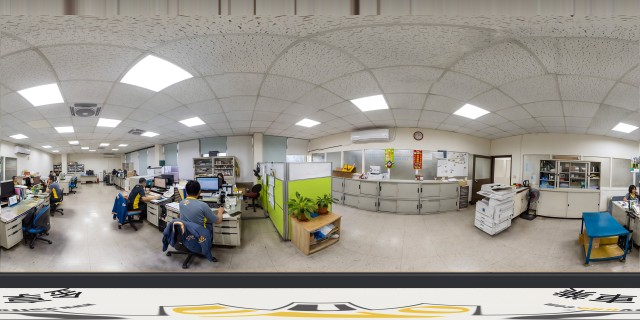
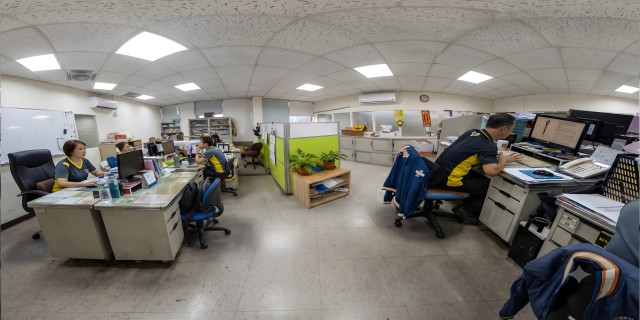
Replace 二樓業務部 panorama with 二樓業務.jpg.

diff --git a/index.html b/index.html
@@ -11,7 +11,7 @@
   <link href="https://fonts.googleapis.com/css2?family=Noto+Sans+TC:wght@400;500;600;700&family=Noto+Serif+TC:wght@600;700&display=swap" rel="stylesheet">
   <link rel="stylesheet" href="https://cdn.jsdelivr.net/npm/@photo-sphere-viewer/core@5.14.1/index.css">
   <link rel="stylesheet" href="https://cdn.jsdelivr.net/npm/@photo-sphere-viewer/markers-plugin@5.14.1/index.css">
-  <link rel="stylesheet" href="./css/tour.css?v=58">
+  <link rel="stylesheet" href="./css/tour.css?v=59">
   <script type="importmap">
   {
     "imports": {
@@ -186,6 +186,6 @@
     </div>
   </div>
 
-  <script type="module" src="./js/tour.js?v=58"></script>
+  <script type="module" src="./js/tour.js?v=59"></script>
 </body>
 </html>

diff --git a/js/tour.js b/js/tour.js
@@ -14,7 +14,7 @@ import {
   writeSceneGuideOverride,
 } from './guide.js';
 
-const MEDIA_VERSION = '58';
+const MEDIA_VERSION = '59';
 const STATIONS_URL = `./media/stations.json?v=${MEDIA_VERSION}`;
 const DEFAULT_ZOOM = 42;
 const THUMBS_COLLAPSE_KEY = 'f360-thumbs-collapsed';
